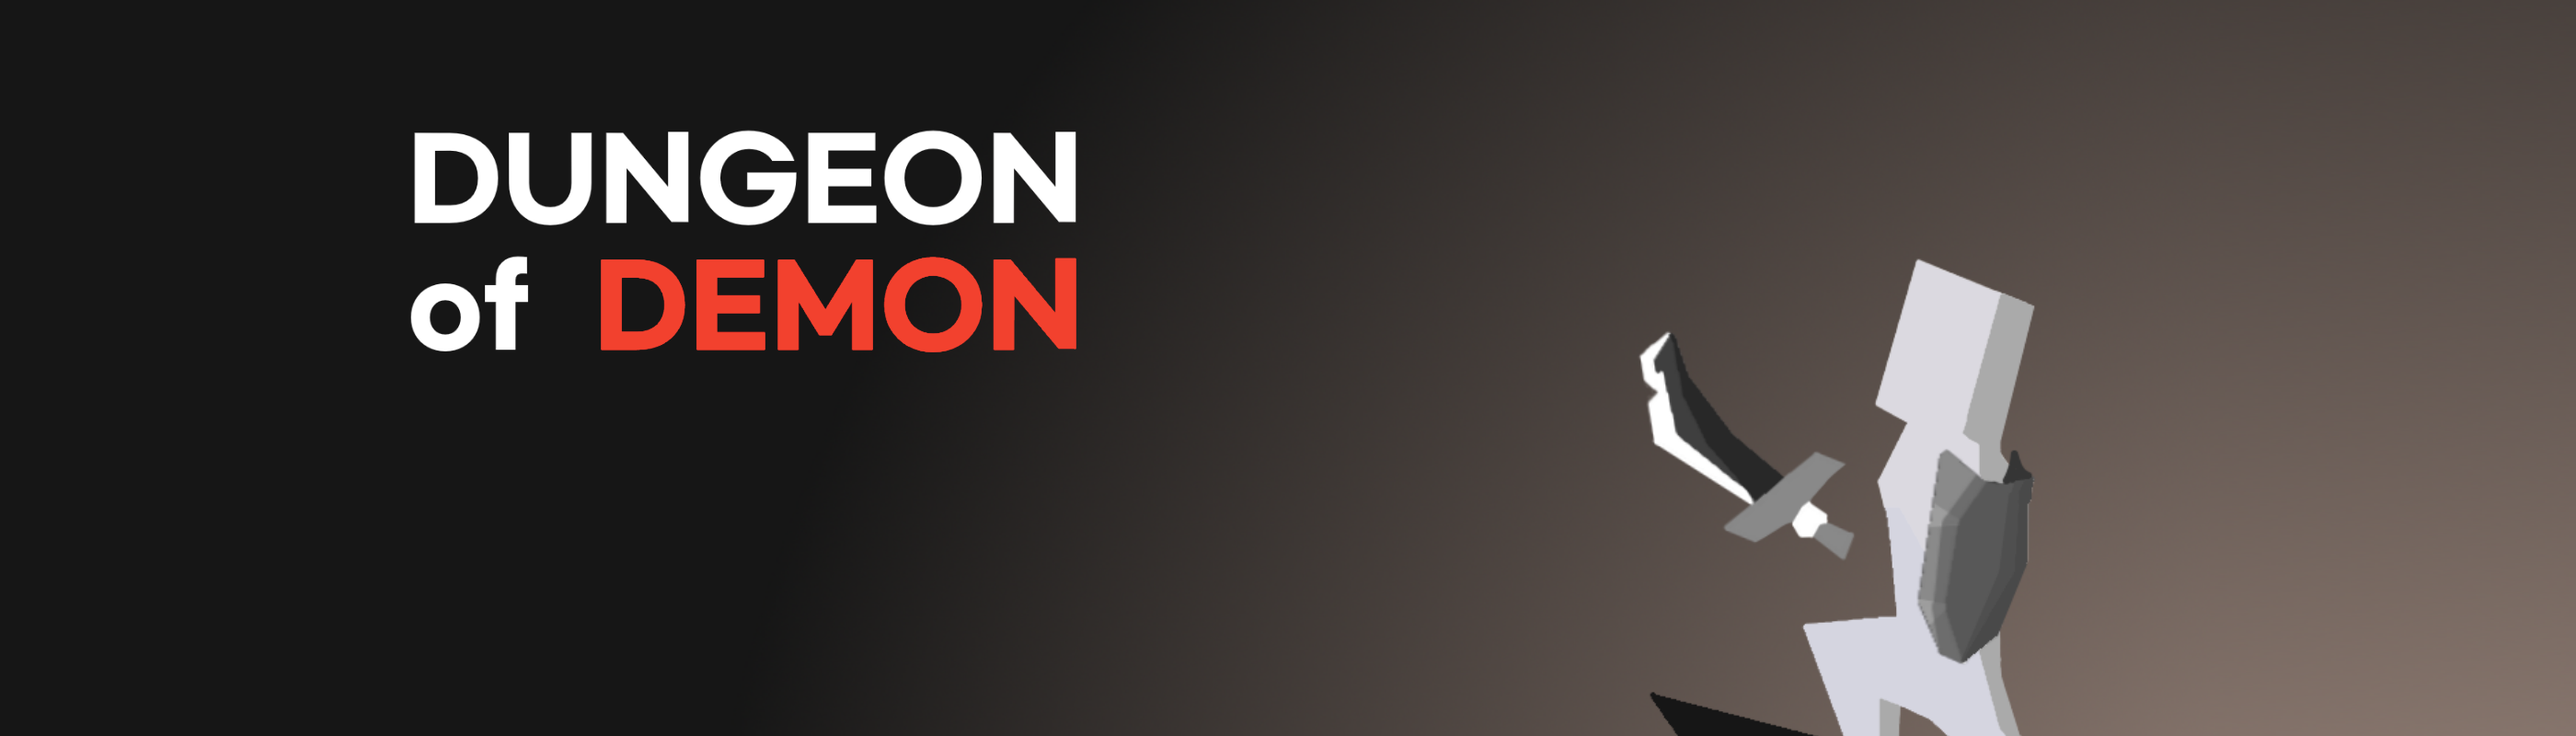
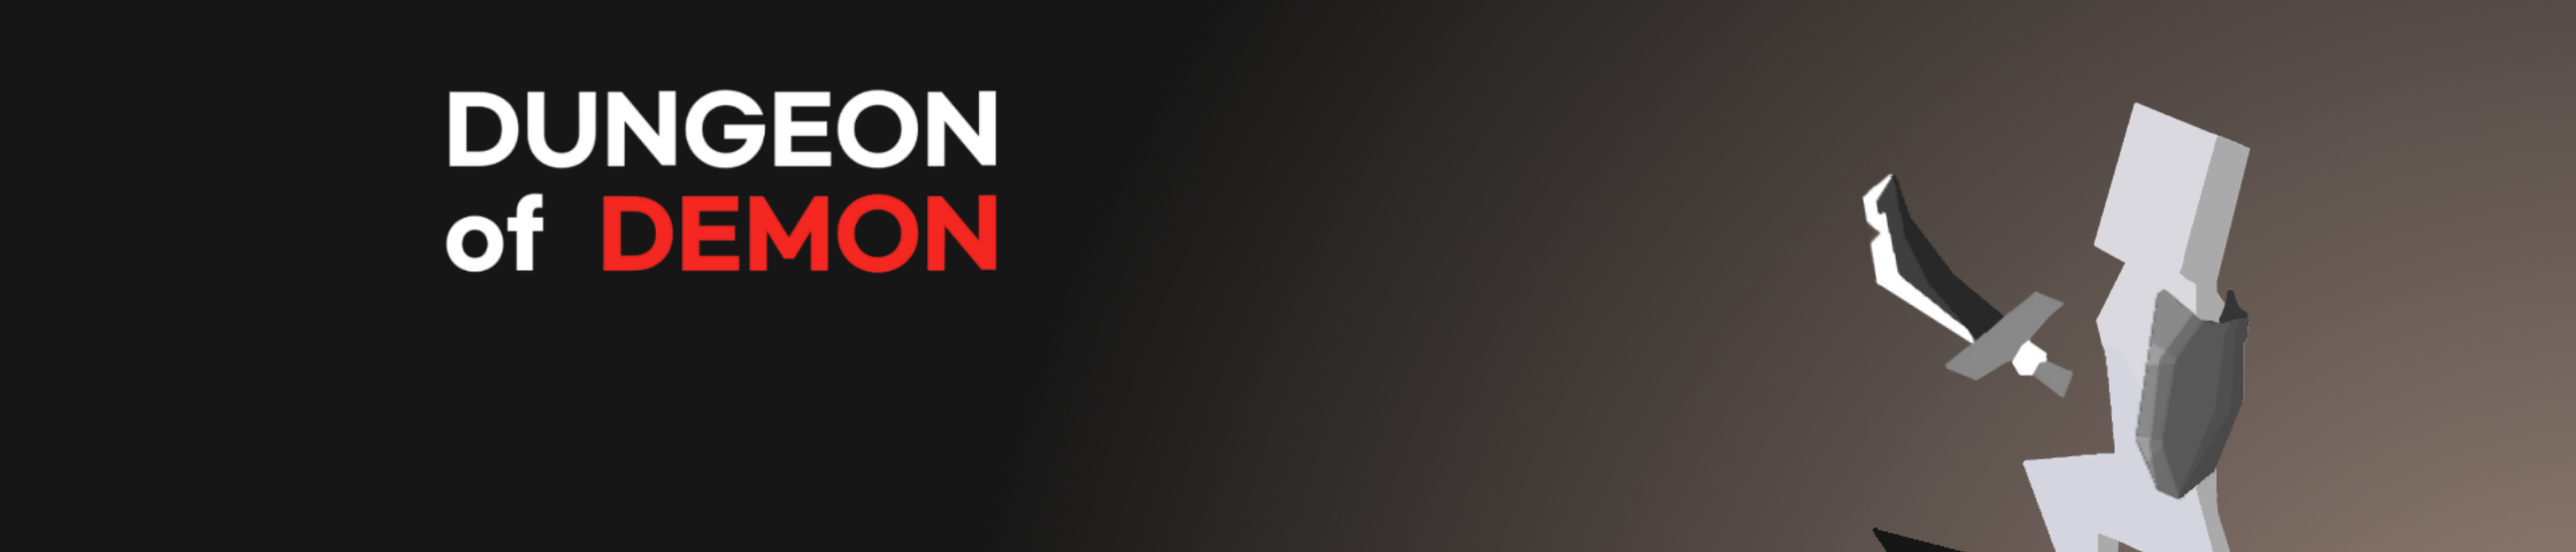
fix2

Changed region(s): [[0.6214, 0.18, 0.87, 1.0], [0.1554, 0.15, 0.435, 0.51]]

diff --git a/index2.html b/index2.html
@@ -1,52 +1,35 @@
 <!doctype html>
 
-<head>
-  <meta charset="utf-8">
-  <title>
-    Dungeon Of Demon
-  </title>
-  <link rel="stylesheet" href="index2.css">
+    <head>
+    <meta charset="utf-8">
+        <title>
+        Dungeon Of Demon
+        </title>
+        <link rel="stylesheet" href="index.css">
     
-<style type="text/css">
- /* link - 아직 클릭하지 않은 경우 red 색상 설정 */
- a:link { color: green; text-decoration: none;}	
- /* visited - 한번 클릭하거나 전에 클릭한적 있을 경우 #c71d44 설정 */
- a:visited { color: #c71d44; text-decoration: none;}	
- /* hover - 마우스를 해당 링크에 위치했을 경우 #006DD7 설정 */
- a:hover { color: #006DD7; text-decoration: underline;}
-</style>
-</head>
-<body>
-    
-    
-<header>
-<h1>Dungeon Of <span>Demon</span></h1>
-  <nav>
-      <span><a href="https://drive.google.com/file/d/1NviAZUdimaHidNnTP0qbZJ6dGeS4Iri2/view?usp=sharing" target="_blank" class="blind">다운로드</a></span>
-    <span></span>
-  </nav>
-</header>
-    
-<img src="image/Dungeon%20Of%20Demon(%EC%84%B8%EB%B6%80%EC%A0%95%EB%B3%B4).png">
-    
-<div>
-    <h1>
-        <b>세부정보</b>
-    </h1>
-        <h2>
-        Dungeon Of Demon은 로그라이크 기반의 게임입니다.<br>
-        여러 스킬들을 직접 조합하여 사용할 수 있으며 자신만의 콤보를 만들어보세요.<br>
-        조합에 따라 다양한 플레이가 가능합니다.
-        </h2>
-    <h1>
-        <b>역사</b>
-    </h1>
-        <h2>
-        Dungeon Of Demon은 소규모 팀 KEHSLD에서 개발했으며 저희 팀은 개발자 한 명과 7명의 테스터가 있는 팀입니다.<br>
-        또한 해당 게임은 단순히 내가 해보고싶은 게임을 만들자는 취지에서 시작하여 첫 출시 경험을 쌓고자 하는 목표로 이어졌습니다.<br>
-        해당 프로젝트는 저희에게 있어 의미있는 작품인 만큼 열심히 만들어나가겠습니다.<br>
-        </h2>
-</div>    
-</body>
+        <style type="text/css">
+            /* link - 아직 클릭하지 않은 경우 red 색상 설정 */
+            a:link { color: rgb(219, 56, 35); text-decoration: none;}	
+            /* visited - 한번 클릭하거나 전에 클릭한적 있을 경우 #c71d44 설정 */
+            a:visited { color: #e72923; text-decoration: none;}
+            /* hover - 마우스를 해당 링크에 위치했을 경우 #006DD7 설정 */
+            a:hover { color: #df6666; text-decoration: underline;}
+    </style>
+    </head>
+        <body>
+
+            <header>
+                <a href="index.html" style="text-decoration:none"><h1>Dungeon Of <span>Demon</span></h1></a>
+              <nav>
+                <span><a href="index.html">메인페이지</a></span>
+                <span><a href="index2.html">세부정보</a></span>
+                <span><a href="https://drive.google.com/file/d/1NviAZUdimaHidNnTP0qbZJ6dGeS4Iri2/view?usp=sharing" target="_blank">다운로드</a></span>
+              </nav>
+            </header>
+
+                <img src="image/Dungeon%20Of%20Demon(%EC%84%B8%EB%B6%80%EC%A0%95%EB%B3%B4).png" width="100%">
+
+        </body>
 
 </html>
+

diff --git a/index.html b/index.html
@@ -9,11 +9,11 @@
     
     <style type="text/css">
         /* link - 아직 클릭하지 않은 경우 red 색상 설정 */
-        a:link { color: green; text-decoration: none;}	
+        a:link { color: rgb(219, 56, 35); text-decoration: none;}	
         /* visited - 한번 클릭하거나 전에 클릭한적 있을 경우 #c71d44 설정 */
-        a:visited { color: #c71d44; text-decoration: none;}	
+        a:visited { color: #e72923; text-decoration: none;}
         /* hover - 마우스를 해당 링크에 위치했을 경우 #006DD7 설정 */
-        a:hover { color: #006DD7; text-decoration: underline;}
+        a:hover { color: #df6666; text-decoration: underline;}
     </style>
     </head>
         <body>
@@ -21,12 +21,13 @@
             <header>
             <h1>Dungeon Of <span>Demon</span></h1>
               <nav>
-                  <span><a href="https://drive.google.com/file/d/1NviAZUdimaHidNnTP0qbZJ6dGeS4Iri2/view?usp=sharing" target="_blank">다운로드</a></span>
+                <span><a href="index.html">메인페이지</a></span>
                 <span><a href="index2.html">세부정보</a></span>
+                <span><a href="https://drive.google.com/file/d/1NviAZUdimaHidNnTP0qbZJ6dGeS4Iri2/view?usp=sharing" target="_blank">다운로드</a></span>
               </nav>
             </header>
 
-                <img src="image/Dungeon%20Of%20Demon(%EC%84%B8%EB%B6%80%EC%A0%95%EB%B3%B4).png">
+                <img src="image/Dungeon%20Of%20Demon(메인).png", width="100%">
 
         </body>
 

diff --git a/index.css b/index.css
@@ -39,6 +39,31 @@ body, html {
 span {
 
     color: #E84127;
+    
+}
+
+b {
+    
+    color: #DDC6B6
+        
+}
+
+body {
+    
+    background-color: #161616;
+    
+}
+
+div {
+    
+    text-align: center;
+    
+}
+
+h2 {
+    
+    color: #FCF6F5;
+    
 }
 
 h1 {
@@ -46,9 +71,8 @@ h1 {
     color: azure
 }
 
-body {
+a { 
     
-    background-color: #161616;
-    background-image: url(image/Dungeon%20Of%20Demon(%EC%84%B8%EB%B6%80%EC%A0%95%EB%B3%B4).png
-    
+    text-decoration:none 
+
 }

diff --git a/index2.css b/index2.css
@@ -4,7 +4,7 @@ header {
   left: 0;
   right: 0;
   
-  height: 90px;
+  height: 75px;
   padding: 1rem;
   color: white;
   background: #161616;
